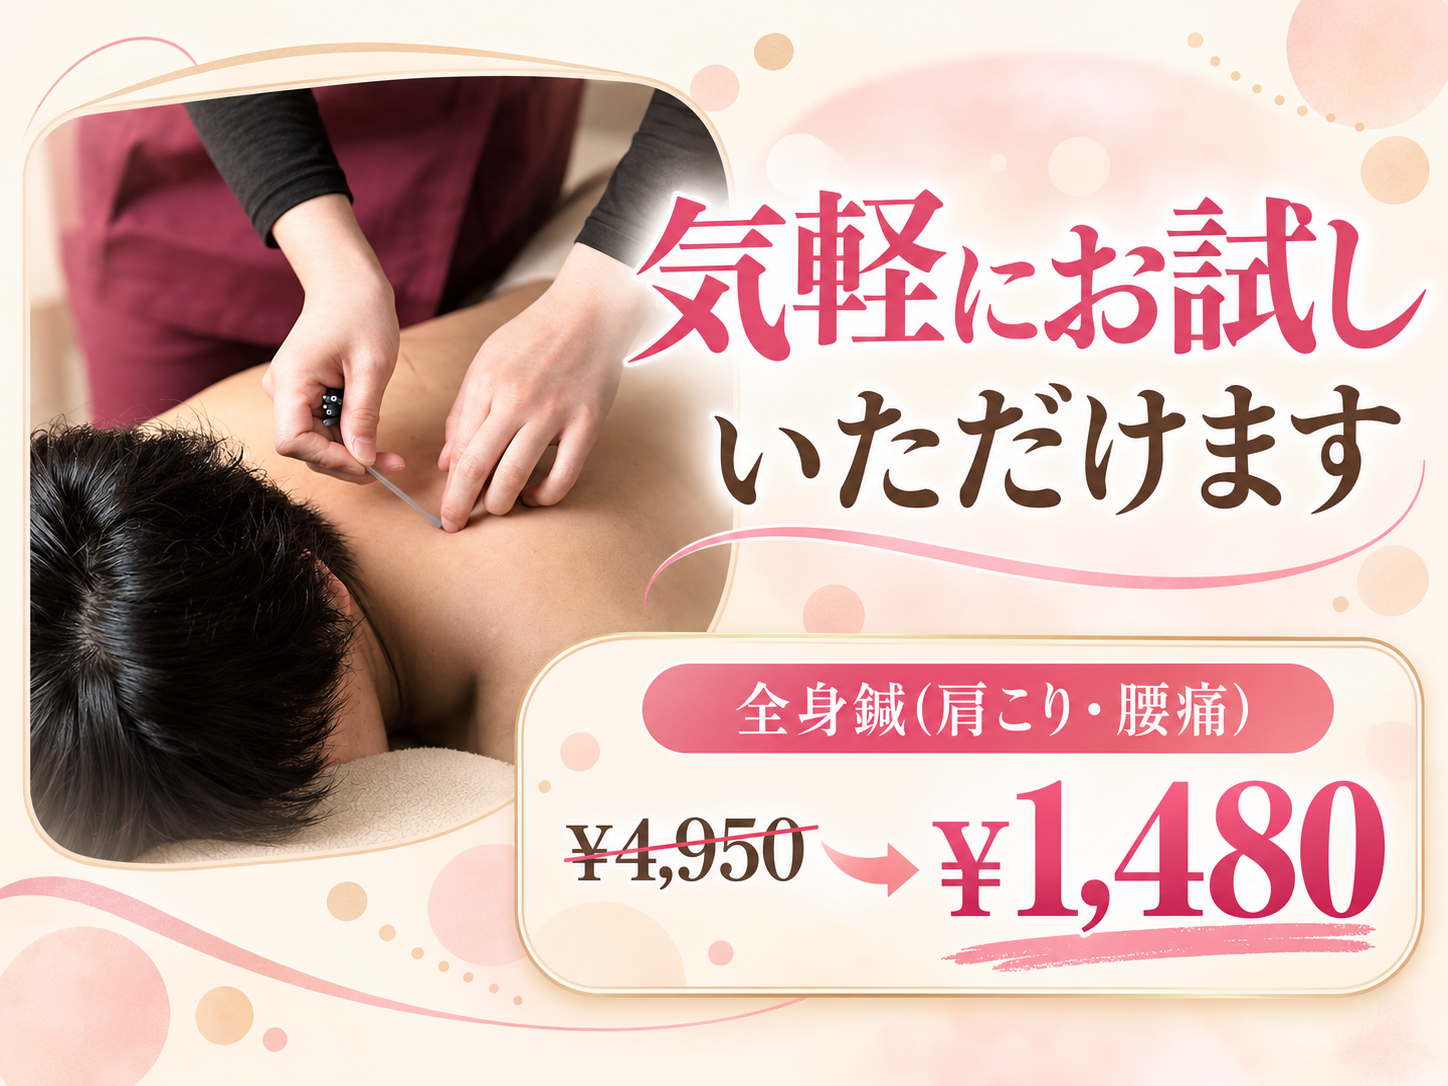
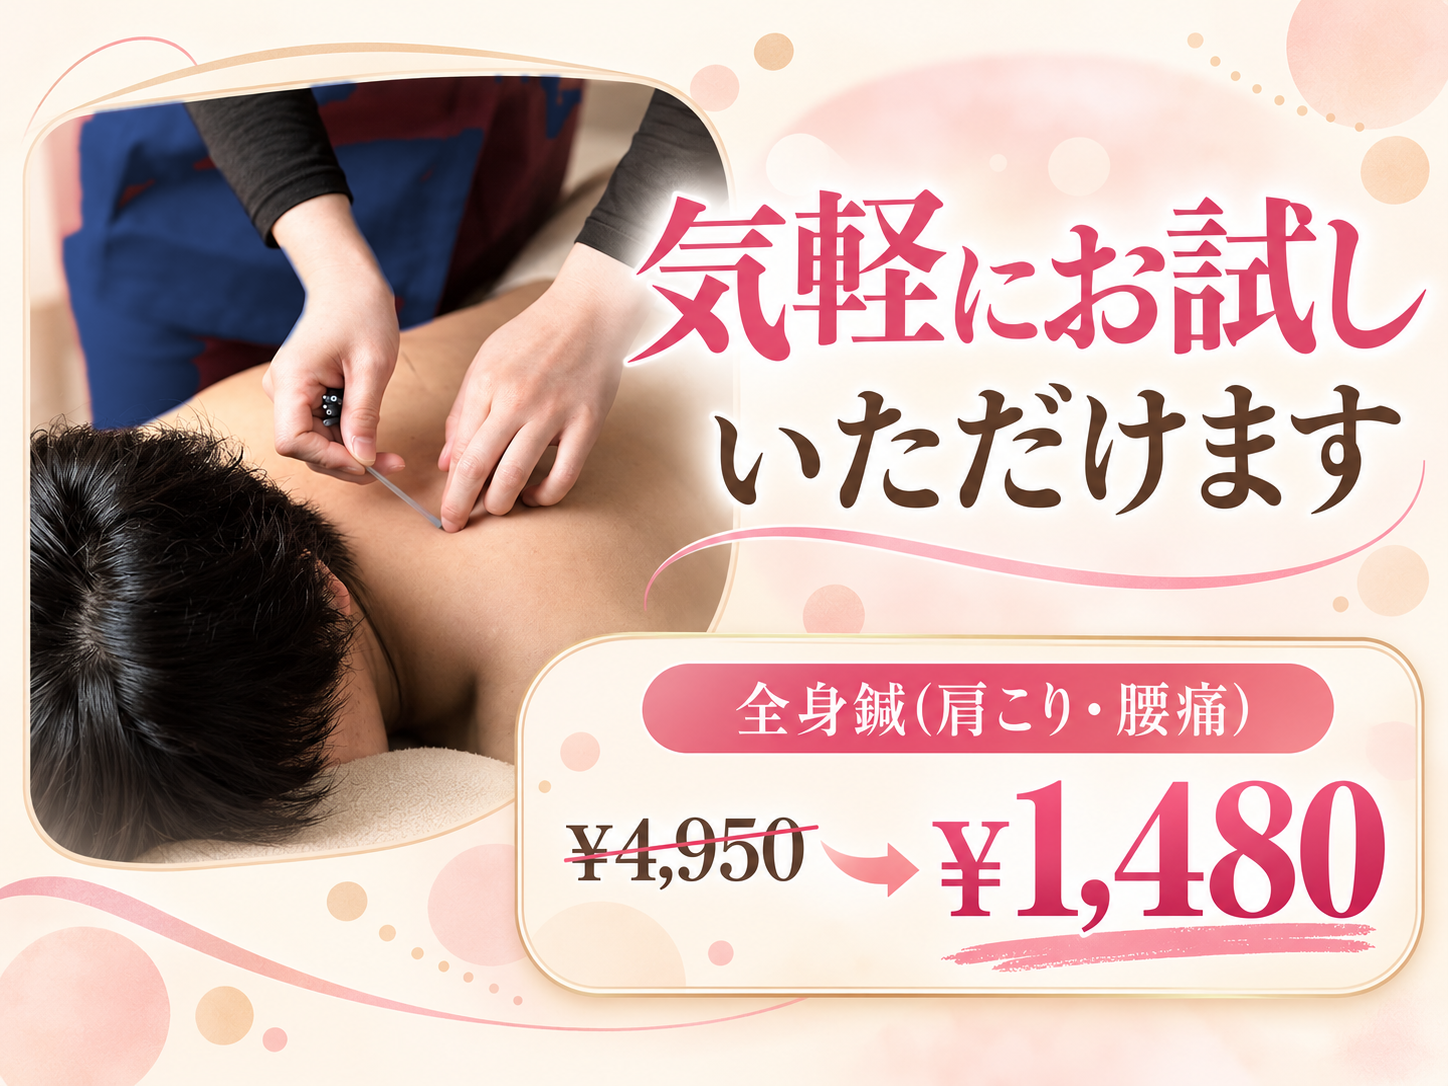
施術者の制服をエンジから紺に変更(自社サイトの色に統一)
自社サイトのメインビジュアルが紺のスクラブ+黒の長袖のため、実写のエンジ色の制服を
色域マスクで紺に置き換えた。特集3(メンズ)と雰囲気3(お試し価格バナー)が対象。
バナー側はピンクの見出し文字が同じ色域に入るので、制服のある範囲に限定して処理している。

Claude-Session: https://claude.ai/code/session_01EeuZ2DFFVK8t2yNWiBTE7D

diff --git a/scripts/uniform_recolor.py b/scripts/uniform_recolor.py
@@ -1,0 +1,54 @@
+from PIL import Image, ImageFilter
+import numpy as np
+
+def rgb2hsv(a):
+    r,g,b=a[...,0],a[...,1],a[...,2]
+    mx=a.max(-1); mn=a.min(-1); d=mx-mn+1e-6
+    h=np.zeros_like(mx)
+    m=(mx==r); h[m]=((g-b)[m]/d[m])%6
+    m=(mx==g); h[m]=((b-r)[m]/d[m])+2
+    m=(mx==b); h[m]=((r-g)[m]/d[m])+4
+    return h/6.0, d/(mx+1e-6), mx
+
+def hsv2rgb(h,s,v):
+    i=np.floor(h*6.0); f=h*6.0-i
+    p=v*(1-s); q=v*(1-f*s); t=v*(1-(1-f)*s)
+    i=(i%6).astype(int)
+    out=np.zeros(h.shape+(3,),np.float32)
+    for k,(R,G,B) in enumerate([(v,t,p),(q,v,p),(p,v,t),(p,q,v),(t,p,v),(v,p,q)]):
+        m=(i==k); out[...,0][m]=R[m]; out[...,1][m]=G[m]; out[...,2][m]=B[m]
+    return out
+
+def recolor_uniform(path, navy_h=0.615, sat=0.62, val_scale=0.66,
+                    hue_hi=0.90, hue_lo=0.03, smin=0.35, vmin=0.28, feather=2.0):
+    im=Image.open(path).convert('RGB')
+    a=np.asarray(im).astype(np.float32)/255.
+    h,s,v=rgb2hsv(a)
+    m=(((h>hue_hi)|(h<hue_lo)) & (s>smin) & (v>vmin)).astype(np.float32)
+    # despeckle: open (min then max) via PIL, then feather
+    mi=Image.fromarray((m*255).astype(np.uint8))
+    mi=mi.filter(ImageFilter.MinFilter(5)).filter(ImageFilter.MaxFilter(7))
+    mi=mi.filter(ImageFilter.GaussianBlur(feather))
+    m=np.asarray(mi).astype(np.float32)/255.
+    h2=np.full_like(h, navy_h)
+    s2=np.clip(s*0.0+sat, 0, 1)
+    v2=np.clip(v*val_scale, 0, 1)
+    new=hsv2rgb(h2,s2,v2)
+    out=a*(1-m[...,None]) + new*m[...,None]
+    return Image.fromarray((np.clip(out,0,1)*255).astype(np.uint8)), m
+
+
+# 施術者のエンジ色の制服を、自社サイトに合わせた紺色に置き換える。
+#
+#   python3 -c "
+#   import sys; sys.path.insert(0,'scripts')
+#   from uniform_recolor import recolor_uniform
+#   recolor_uniform('in.jpg', smin=0.45, hue_lo=0.01)[0].save('out.jpg', quality=92)
+#   "
+#
+# パラメータの勘所(2026-09-17に実写4枚で調整):
+# - smin=0.45 が要。0.35 まで下げると爪や指先のピンクを拾って青くなる。
+#   0.52 まで上げると制服に赤の取り残しが出る。
+# - 完成済みバナー(文字入り)に使う場合は、ピンクの見出し文字が同じ色域に入るため、
+#   制服のある範囲だけを矩形で切って mask に掛け合わせること。
+#   funiki_03 では y:3〜45%, x:2〜42.5% に限定して「気」の字を巻き込むのを回避した。
